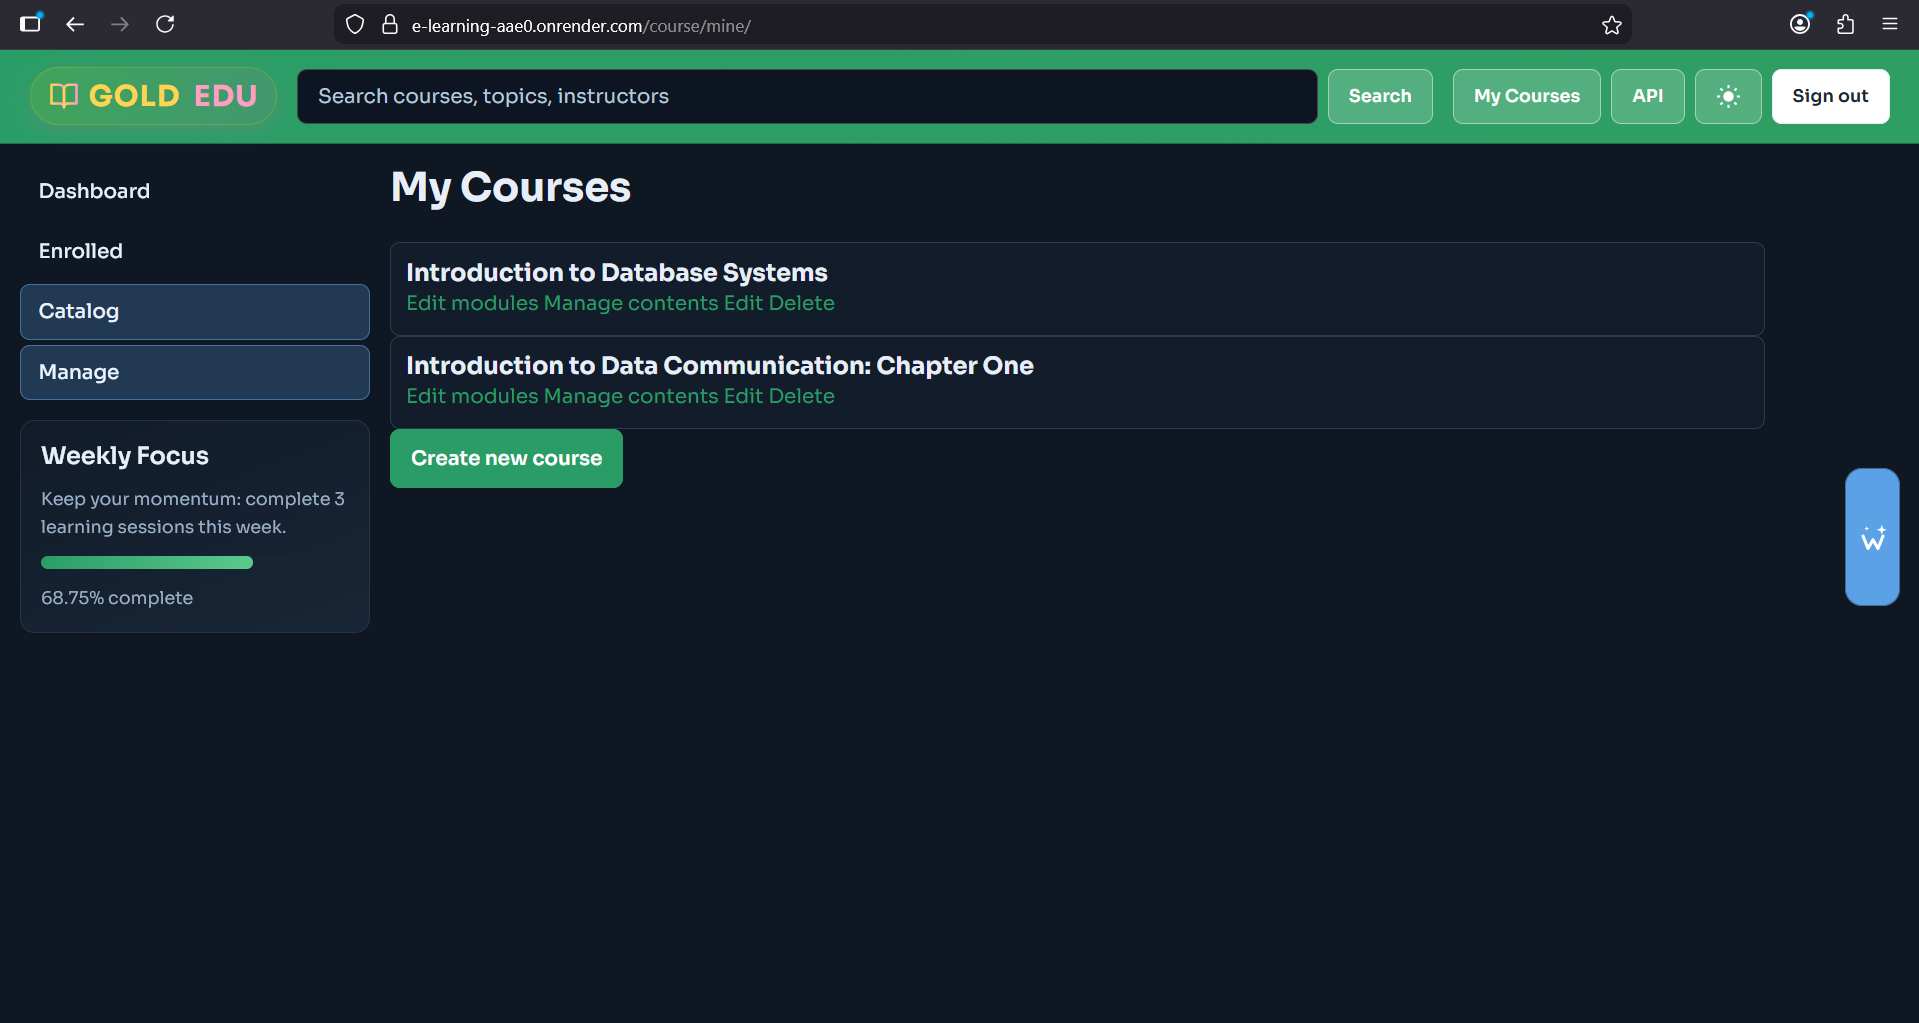
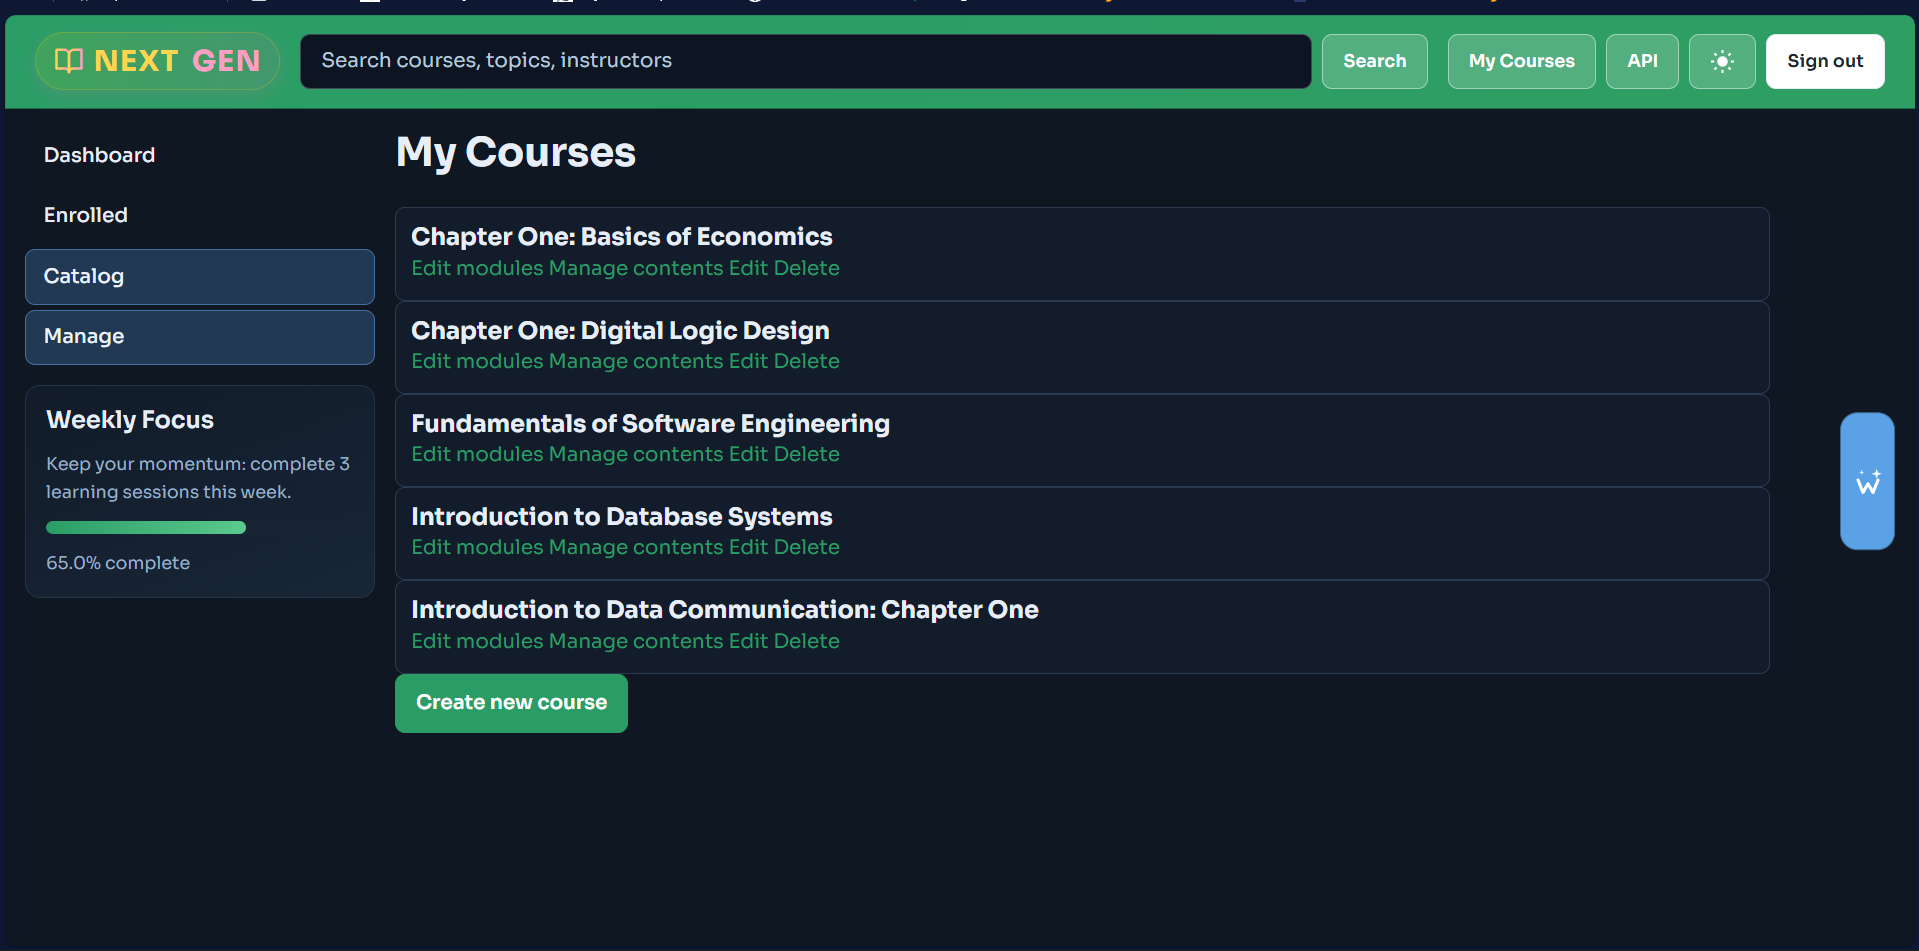
add image preview

Changed region(s): [[0.0, 0.0, 1.0, 0.6099], [0.1845, 0.5184, 0.5534, 0.7928], [0.9531, 0.4269, 1.0, 0.6099]]

diff --git a/edu/courses/templates/base.html b/edu/courses/templates/base.html
@@ -27,7 +27,7 @@
                 <path d="M22 3h-6a4 4 0 0 0-4 4v14a3 3 0 0 1 3-3h7z"></path>
             </svg>
             <span class="brand-text">
-                <span class="brand-primary">Gold</span><span class="brand-divider">&nbsp;</span><span class="brand-secondary">Edu</span>
+                <span class="brand-primary">Next</span><span class="brand-divider">&nbsp;</span><span class="brand-secondary">Gen</span>
             </span>
 
         </a>
